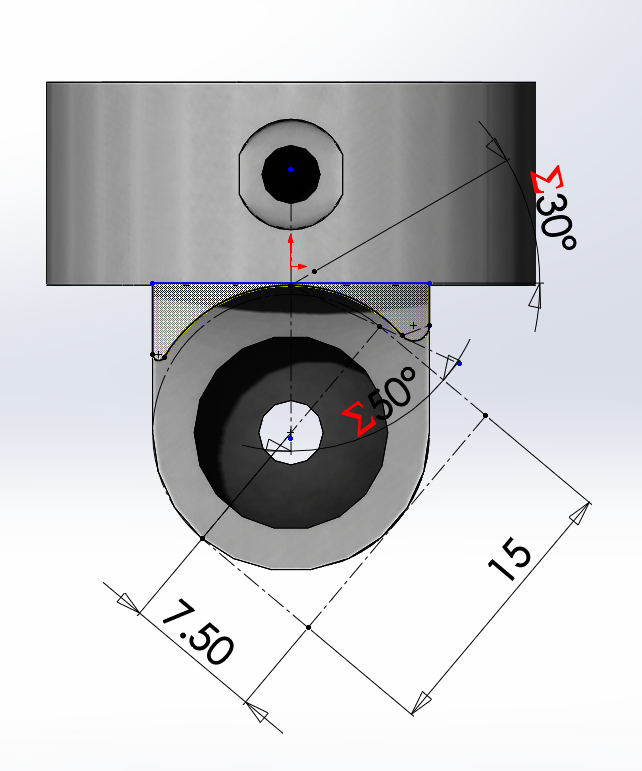
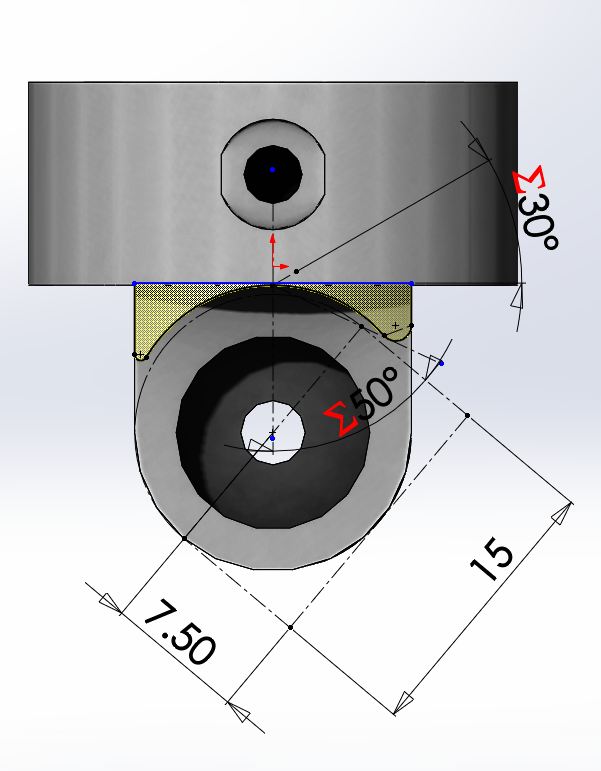
figures scaled

diff --git a/docs/report/chapters/cha_design/sections/subsections/sub_mechanical_limits.tex b/docs/report/chapters/cha_design/sections/subsections/sub_mechanical_limits.tex
@@ -15,12 +15,12 @@ The angles of the mechanical limits have been calculated according to the physic
 
 \begin{figure}[ht!]
     \centering
-    \begin{subfigure}[b]{0.49\textwidth}
+    \begin{subfigure}[b]{0.35\textwidth}
         \includegraphics[width=\textwidth]{figures/joint_limits_hip.PNG}
         \caption{Joint limits of the hip.}
         \label{fig:joint_limits_hip}
     \end{subfigure}
-    \begin{subfigure}[b]{0.49\textwidth}
+    \begin{subfigure}[b]{0.35\textwidth}
         \includegraphics[width=\textwidth]{figures/joint_limits_ankle_upper.PNG}
         \caption{Joint limits of the ankle.}
         \label{fig:joint_limits_ankle_upper}
@@ -29,12 +29,13 @@ The angles of the mechanical limits have been calculated according to the physic
 
 \begin{figure}[ht!]
     \ContinuedFloat % continue from previous page
-    \begin{subfigure}[b]{0.49\textwidth}
+    \centering
+    \begin{subfigure}[b]{0.35\textwidth}
         \includegraphics[width=\textwidth]{figures/joint_limits_knee_upper.PNG}
         \caption{Joint limits of the knee: Upper link.}
         \label{fig:joint_limits_knee_upper}
     \end{subfigure}
-    \begin{subfigure}[b]{0.49\textwidth}
+    \begin{subfigure}[b]{0.35\textwidth}
         \includegraphics[width=\textwidth]{figures/joint_limits_knee_lower.PNG}
         \caption{Joint limits of the knee: Lower link.}
         \label{fig:joint_limits_knee_lower}
